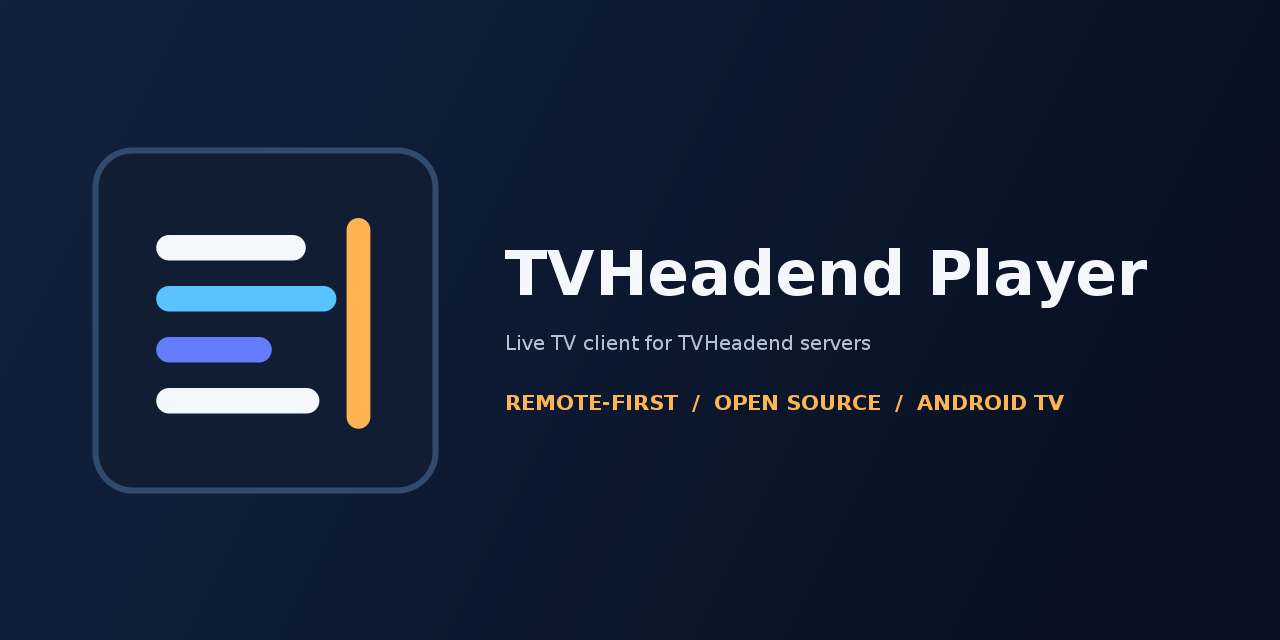
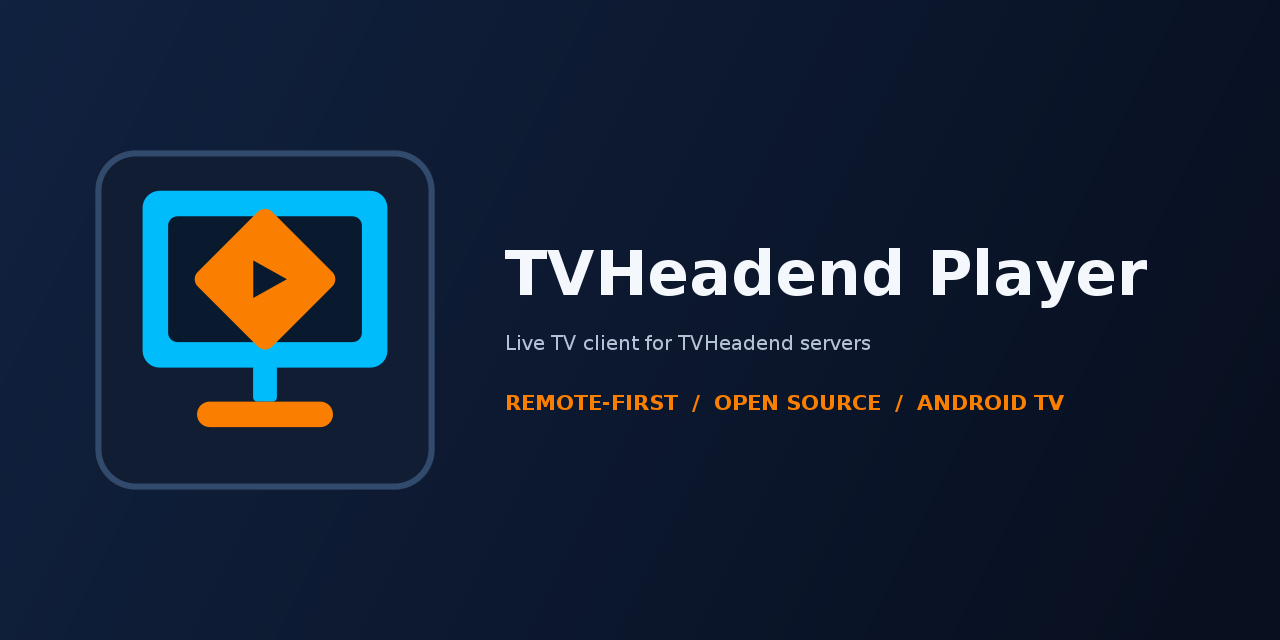
Redesign launcher artwork

diff --git a/tools/RenderArtwork.java b/tools/RenderArtwork.java
@@ -4,6 +4,9 @@ import java.awt.Font;
 import java.awt.GradientPaint;
 import java.awt.Graphics2D;
 import java.awt.RenderingHints;
+import java.awt.geom.AffineTransform;
+import java.awt.geom.Area;
+import java.awt.geom.GeneralPath;
 import java.awt.geom.RoundRectangle2D;
 import java.awt.image.BufferedImage;
 import java.io.IOException;
@@ -12,14 +15,23 @@ import java.nio.file.Files;
 import java.nio.file.Path;
 import javax.imageio.ImageIO;
 
+/**
+ * Reproducible launcher, banner, and marketing artwork for TVHeadend Player.
+ *
+ * Mark: cyan TV set (official TVHeadend cyan) with the orange center diamond and
+ * a play triangle — reads as a TVHeadend live-TV player at launcher scale.
+ */
 public final class RenderArtwork {
+    // Official Tvheadend palette sampled from upstream logobig.png
+    private static final Color TVH_CYAN = new Color(0x00, 0xBC, 0xFA);
+    private static final Color TVH_ORANGE = new Color(0xFA, 0x7F, 0x00);
+
     private static final Color NAVY = new Color(0x08, 0x0F, 0x1E);
+    private static final Color SCREEN = new Color(0x0A, 0x1A, 0x2E);
     private static final Color TILE = new Color(0x10, 0x1D, 0x33);
+    private static final Color TILE_STROKE = new Color(0x32, 0x4A, 0x6B);
     private static final Color WHITE = new Color(0xF4, 0xF7, 0xFB);
     private static final Color MUTED = new Color(0xB5, 0xC1, 0xD4);
-    private static final Color CYAN = new Color(0x59, 0xC3, 0xFF);
-    private static final Color BLUE = new Color(0x65, 0x7C, 0xFF);
-    private static final Color AMBER = new Color(0xFF, 0xB4, 0x54);
 
     private RenderArtwork() {}
 
@@ -29,12 +41,15 @@ public final class RenderArtwork {
         writeSocialPreview();
         writeAdaptiveLayers();
         writeLegacyIcons();
+        writeMonochrome();
         writeSvg();
     }
 
     private static Graphics2D graphics(BufferedImage image) {
         Graphics2D graphics = image.createGraphics();
         graphics.setRenderingHint(RenderingHints.KEY_ANTIALIASING, RenderingHints.VALUE_ANTIALIAS_ON);
+        graphics.setRenderingHint(RenderingHints.KEY_STROKE_CONTROL, RenderingHints.VALUE_STROKE_PURE);
+        graphics.setRenderingHint(RenderingHints.KEY_RENDERING, RenderingHints.VALUE_RENDER_QUALITY);
         graphics.setRenderingHint(RenderingHints.KEY_TEXT_ANTIALIASING, RenderingHints.VALUE_TEXT_ANTIALIAS_ON);
         return graphics;
     }
@@ -44,40 +59,99 @@ public final class RenderArtwork {
         graphics.fillRect(0, 0, width, height);
     }
 
+    /**
+     * Draws the app mark in a square of {@code size} with origin at ({@code x},{@code y}).
+     * Geometry stays inside ~10% margins so adaptive-icon masks keep the TV readable.
+     */
     private static void drawMark(Graphics2D graphics, float x, float y, float size, boolean tile) {
         if (tile) {
             graphics.setColor(TILE);
             graphics.fill(new RoundRectangle2D.Float(x, y, size, size, size * 0.22f, size * 0.22f));
-            graphics.setColor(new Color(0x32, 0x4A, 0x6B));
+            graphics.setColor(TILE_STROKE);
             graphics.setStroke(new BasicStroke(Math.max(2f, size * 0.018f)));
-            graphics.draw(new RoundRectangle2D.Float(x, y, size, size, size * 0.22f, size * 0.22f));
+            graphics.draw(new RoundRectangle2D.Float(
+                    x + size * 0.01f,
+                    y + size * 0.01f,
+                    size * 0.98f,
+                    size * 0.98f,
+                    size * 0.22f,
+                    size * 0.22f));
         }
 
-        float left = x + size * 0.18f;
-        float laneHeight = size * 0.075f;
-        float corner = laneHeight;
-        float[] laneY = {0.25f, 0.40f, 0.55f, 0.70f};
-        float[] laneWidth = {0.44f, 0.53f, 0.34f, 0.48f};
-        Color[] colors = {WHITE, CYAN, BLUE, WHITE};
-        for (int index = 0; index < laneY.length; index++) {
-            graphics.setColor(colors[index]);
-            graphics.fill(new RoundRectangle2D.Float(
-                    left,
-                    y + size * laneY[index],
-                    size * laneWidth[index],
-                    laneHeight,
-                    corner,
-                    corner));
-        }
+        float tvLeft = x + size * 0.14f;
+        float tvTop = y + size * 0.12f;
+        float tvWidth = size * 0.72f;
+        float tvHeight = size * 0.52f;
+        float tvRadius = size * 0.10f;
+        float bezel = size * 0.075f;
 
-        graphics.setColor(AMBER);
+        // Solid cyan TV chassis
+        graphics.setColor(TVH_CYAN);
+        graphics.fill(new RoundRectangle2D.Float(tvLeft, tvTop, tvWidth, tvHeight, tvRadius, tvRadius));
+
+        // Dark screen inset
+        graphics.setColor(SCREEN);
         graphics.fill(new RoundRectangle2D.Float(
-                x + size * 0.74f,
-                y + size * 0.20f,
-                size * 0.07f,
-                size * 0.62f,
-                size * 0.07f,
-                size * 0.07f));
+                tvLeft + bezel,
+                tvTop + bezel,
+                tvWidth - bezel * 2f,
+                tvHeight - bezel * 2f,
+                tvRadius * 0.55f,
+                tvRadius * 0.55f));
+
+        float cx = tvLeft + tvWidth * 0.5f;
+        float cy = tvTop + tvHeight * 0.5f;
+
+        // Official-style orange center diamond (rounded square rotated 45°)
+        float diamondRadius = size * 0.155f;
+        float diamondCorner = size * 0.06f;
+        RoundRectangle2D diamondRect = new RoundRectangle2D.Float(
+                cx - diamondRadius,
+                cy - diamondRadius,
+                diamondRadius * 2f,
+                diamondRadius * 2f,
+                diamondCorner,
+                diamondCorner);
+        AffineTransform rotate = AffineTransform.getRotateInstance(Math.PI / 4.0, cx, cy);
+        Area diamond = new Area(rotate.createTransformedShape(diamondRect));
+        graphics.setColor(TVH_ORANGE);
+        graphics.fill(diamond);
+
+        // Play triangle cut through the diamond (screen-colored so it reads on any bg)
+        float play = size * 0.115f;
+        GeneralPath triangle = new GeneralPath();
+        triangle.moveTo(cx - play * 0.30f, cy - play * 0.48f);
+        triangle.lineTo(cx - play * 0.30f, cy + play * 0.48f);
+        triangle.lineTo(cx + play * 0.56f, cy);
+        triangle.closePath();
+        graphics.setColor(SCREEN);
+        graphics.fill(triangle);
+
+        // Neck
+        float neckWidth = size * 0.07f;
+        float neckTop = tvTop + tvHeight;
+        float neckBottom = y + size * 0.74f;
+        graphics.setColor(TVH_CYAN);
+        graphics.fill(new RoundRectangle2D.Float(
+                cx - neckWidth * 0.5f,
+                neckTop - size * 0.01f,
+                neckWidth,
+                neckBottom - neckTop + size * 0.01f,
+                neckWidth * 0.35f,
+                neckWidth * 0.35f));
+
+        // Orange base (brand accent + “player” warmth)
+        float baseWidth = size * 0.40f;
+        float baseHeight = size * 0.075f;
+        float baseTop = y + size * 0.74f;
+        graphics.setColor(TVH_ORANGE);
+        graphics.fill(new RoundRectangle2D.Float(
+                cx - baseWidth * 0.5f,
+                baseTop,
+                baseWidth,
+                baseHeight,
+                baseHeight,
+                baseHeight));
     }
 
     private static void drawWordmark(Graphics2D graphics, int x, int titleBaseline, int titleSize, int subtitleBaseline) {
@@ -121,7 +195,7 @@ public final class RenderArtwork {
         paintBackground(graphics, 1280, 640);
         drawMark(graphics, 95, 150, 340, true);
         drawWordmark(graphics, 505, 295, 62, 350);
-        graphics.setColor(AMBER);
+        graphics.setColor(TVH_ORANGE);
         graphics.setFont(new Font("DejaVu Sans", Font.BOLD, 21));
         graphics.drawString("REMOTE-FIRST  /  OPEN SOURCE  /  ANDROID TV", 505, 410);
         graphics.dispose();
@@ -137,7 +211,8 @@ public final class RenderArtwork {
 
         BufferedImage foreground = new BufferedImage(432, 432, BufferedImage.TYPE_INT_ARGB);
         Graphics2D foregroundGraphics = graphics(foreground);
-        drawMark(foregroundGraphics, 91, 91, 250, false);
+        // Keep full TV+stand inside the adaptive safe zone (~66% center)
+        drawMark(foregroundGraphics, 78, 78, 276, false);
         foregroundGraphics.dispose();
         writePng(foreground, Path.of("app/src/main/res/drawable/ic_launcher_foreground.png"));
     }
@@ -157,6 +232,37 @@ public final class RenderArtwork {
         }
     }
 
+    private static void writeMonochrome() throws IOException {
+        // Viewport 108dp adaptive grid; geometry matches drawMark(18, 18, 72).
+        String xml = """
+                <?xml version="1.0" encoding="utf-8"?>
+                <vector xmlns:android="http://schemas.android.com/apk/res/android"
+                    android:width="108dp"
+                    android:height="108dp"
+                    android:viewportWidth="108"
+                    android:viewportHeight="108">
+                    <path
+                        android:fillColor="#FFFFFFFF"
+                        android:fillType="evenOdd"
+                        android:pathData="M28.1,26.6h51.8c3.6,0 6.5,2.9 6.5,6.5v30.9c0,3.6 -2.9,6.5 -6.5,6.5H28.1c-3.6,0 -6.5,-2.9 -6.5,-6.5V33.1c0,-3.6 2.9,-6.5 6.5,-6.5z M33.5,32.0h41.0c2.1,0 3.8,1.7 3.8,3.8v22.9c0,2.1 -1.7,3.8 -3.8,3.8H33.5c-2.1,0 -3.8,-1.7 -3.8,-3.8V35.8c0,-2.1 1.7,-3.8 3.8,-3.8z" />
+                    <path
+                        android:fillColor="#FFFFFFFF"
+                        android:fillType="evenOdd"
+                        android:pathData="M54,37.0 L65.2,48.2 L54,59.4 L42.8,48.2 Z M50.0,42.7 L50.0,53.7 L60.4,48.2 Z" />
+                    <path
+                        android:fillColor="#FFFFFFFF"
+                        android:pathData="M51.5,70.1h5c0.9,0 1.6,0.7 1.6,1.6v6.2c0,0.9 -0.7,1.6 -1.6,1.6h-5c-0.9,0 -1.6,-0.7 -1.6,-1.6v-6.2c0,-0.9 0.7,-1.6 1.6,-1.6z" />
+                    <path
+                        android:fillColor="#FFFFFFFF"
+                        android:pathData="M39.6,79.3h28.8c2.1,0 3.8,1.7 3.8,3.8v0c0,2.1 -1.7,3.8 -3.8,3.8H39.6c-2.1,0 -3.8,-1.7 -3.8,-3.8v0c0,-2.1 1.7,-3.8 3.8,-3.8z" />
+                </vector>
+                """;
+        Files.writeString(
+                Path.of("app/src/main/res/drawable/ic_launcher_monochrome.xml"),
+                xml,
+                StandardCharsets.UTF_8);
+    }
+
     private static void writeSvg() throws IOException {
         String svg = """
                 <svg xmlns="http://www.w3.org/2000/svg" width="960" height="300" viewBox="0 0 960 300">
@@ -169,11 +275,20 @@ public final class RenderArtwork {
                   </defs>
                   <rect width="960" height="300" fill="url(#bg)"/>
                   <rect x="55" y="55" width="190" height="190" rx="42" fill="#101d33" stroke="#324a6b" stroke-width="4"/>
-                  <rect x="89" y="103" width="84" height="14" rx="7" fill="#f4f7fb"/>
-                  <rect x="89" y="131" width="101" height="14" rx="7" fill="#59c3ff"/>
-                  <rect x="89" y="160" width="65" height="14" rx="7" fill="#657cff"/>
-                  <rect x="89" y="188" width="91" height="14" rx="7" fill="#f4f7fb"/>
-                  <rect x="196" y="93" width="13" height="118" rx="7" fill="#ffb454"/>
+                  <!-- TV chassis -->
+                  <rect x="81.6" y="77.8" width="136.8" height="98.8" rx="19" fill="#00BCFA"/>
+                  <!-- Screen -->
+                  <rect x="95.9" y="92.1" width="108.3" height="70.3" rx="10.5" fill="#0A1A2E"/>
+                  <!-- Orange diamond -->
+                  <g transform="translate(150 127.2) rotate(45)">
+                    <rect x="-29.5" y="-29.5" width="58.9" height="58.9" rx="11.4" fill="#FA7F00"/>
+                  </g>
+                  <!-- Play cutout -->
+                  <polygon points="138.5,109.3 138.5,145.1 174.2,127.2" fill="#0A1A2E"/>
+                  <!-- Neck -->
+                  <rect x="143.4" y="174.7" width="13.3" height="21.9" rx="4" fill="#00BCFA"/>
+                  <!-- Base -->
+                  <rect x="112" y="195.6" width="76" height="14.3" rx="7.1" fill="#FA7F00"/>
                   <text x="290" y="145" fill="#f4f7fb" font-family="DejaVu Sans, sans-serif" font-size="54" font-weight="700">TVHeadend Player</text>
                   <text x="290" y="190" fill="#b5c1d4" font-family="DejaVu Sans, sans-serif" font-size="18">Live TV client for TVHeadend servers</text>
                 </svg>

diff --git a/artwork/README.md b/artwork/README.md
@@ -1,24 +1,26 @@
 # TVHeadend Player artwork
 
-The mark represents parallel channel lanes crossing a visible tuning cursor. It
-deliberately avoids the television-outline and play-triangle imagery used by the
-upstream TVHStream project.
+The mark is a cyan television with Tvheadend’s orange center diamond and a play
+triangle cutout. Official Tvheadend cyan (`#00BCFA`) and orange (`#FA7F00`) are
+sampled from upstream `logobig.png`. The silhouette reads as a live-TV player
+for Tvheadend servers at launcher and banner scale.
 
 ## Palette
 
 - Background: `#080f1e`
-- Mark surface: `#101d33`
+- Gradient highlight: `#112240`
+- Mark tile: `#101d33`
+- Screen inset: `#0A1A2E`
 - Primary text: `#f4f7fb`
 - Secondary text: `#b5c1d4`
-- Live channel cyan: `#59c3ff`
-- Guide blue: `#657cff`
-- Tuning cursor amber: `#ffb454`
+- Tvheadend cyan: `#00BCFA`
+- Tvheadend orange: `#FA7F00`
 
 ## Exports
 
 `tools/RenderArtwork.java` is the reproducible source for the Android launcher
-layers, density fallbacks, 320x180 TV banner, README logo, social preview, and
-editable SVG wordmark.
+layers, density fallbacks, monochrome adaptive layer, 320x180 TV banner, README
+logo, social preview, and editable SVG wordmark.
 
 Run from the repository root with Java 21:
 

diff --git a/docs/product-identity-plan.md b/docs/product-identity-plan.md
@@ -45,13 +45,14 @@ during validation, but it is a separate Android application.
 
 ## Visual identity
 
-The mark uses parallel channel lanes crossing a visible amber tuning cursor. It
-avoids the upstream television-outline/play-triangle artwork and remains legible
-at launcher scale.
+The mark is a cyan television with Tvheadend’s orange center diamond and a play
+triangle cutout. It reuses official Tvheadend cyan/orange and remains legible at
+launcher scale while reading as a live-TV player.
 
 - Source and exports live in `artwork/`.
 - `tools/RenderArtwork.java` reproducibly generates the Android launcher layers,
-  density fallbacks, 320x180 TV banner, SVG/logo, and GitHub social preview.
+  density fallbacks, monochrome adaptive layer, 320x180 TV banner, SVG/logo, and
+  GitHub social preview.
 - The palette and export procedure are documented in `artwork/README.md`.
 - Public screenshots must not contain private servers, channels, addresses,
   credentials, or household identifiers.
